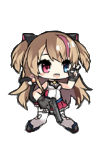
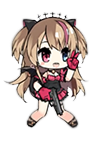
1.3.3
1.3.3（忘了submit了（诶嘿嘿

diff --git a/snqxap/UpdateData.xaml b/snqxap/UpdateData.xaml
@@ -20,6 +20,19 @@
 > - 感谢以上。&#13;
 > - 如果发现了什么bug或者有什么建议，欢迎反馈。&#13;
 &#13;
+###v1.3.3 (Trick or Treat版) &#13;
+&#13;
+> - 增加M1A1、63式数据。&#13;
+> - 部分带有万圣节皮肤的战术少女更新Q版图。&#13;
+> - 九宫格右上角增加战术少女本身提供的光环图。&#13;
+> - 其他计算器增加六图的地图数据。&#13;
+> - 修正爆破榴弹/杀伤榴弹不受好感度影响的bug。&#13;
+> - 修正G3的光环指向。&#13;
+> - 修正布伦的伤害值。&#13;
+> - 修正修改枪娘位置可能导致原光环不变的bug。&#13;
+> - 加强：M3、PP-2000、SIG-510的伤害；PPSh-41、M1919A4、MG34的生命；&#13;
+> - 伯莱塔、布伦、AAT-52的命中；BM59、64式的闪避；M2HB的弹链；LWMMG、MP446、FG42的成长。&#13;
+&#13;
 ###v1.3.2 (国庆/约会大作战版) &#13;
 &#13;
 > - 好感度计算器增加对约会大作战活动（好感UP）的支持。&#13;

diff --git a/snqxap/MainWindow.xaml b/snqxap/MainWindow.xaml
@@ -1,7 +1,7 @@
 <Window x:Class="snqxap.MainWindow"
         xmlns="http://schemas.microsoft.com/winfx/2006/xaml/presentation"
         xmlns:x="http://schemas.microsoft.com/winfx/2006/xaml"
-        Title="「干死雪球」阵型计算器 - h@jyying.cn - v1.3.2 国庆/约会大作战版" Height="825" Width="850">
+        Title="「干死雪球」阵型计算器 - h@jyying.cn - v1.3.3 Trick or Treat版" Height="825" Width="850">
 
     <Viewbox Stretch="Fill">
         <Grid  Height="795" Width="840">

diff --git a/snqxap/MainWindow.xaml.cs b/snqxap/MainWindow.xaml.cs
@@ -31,7 +31,7 @@ namespace snqxap
         /// <summary>
         /// 枪娘总数
         /// </summary>
-        public const int GUN_NUMBER = 119; 
+        public const int GUN_NUMBER = 121; //59 122
         /// <summary>
         /// 装备总数
         /// </summary>
@@ -334,7 +334,7 @@ namespace snqxap
             gun[87].name = "PK"; gun[87].what = 6;gun[87].crit = 0.05; gun[87].belt = 11; gun[87].number = 0; gun[87].damageup = 0; gun[87].hitup = 0; gun[87].shotspeedup = 0; gun[87].critup = 0; gun[87].dodgeup = 0; gun[87].to = 0;
             gun[88].name = "内格夫"; gun[88].what = 6;gun[88].crit = 0.05; gun[88].belt = 9; gun[88].number = 0; gun[88].damageup = 0; gun[88].hitup = 0; gun[88].shotspeedup = 0; gun[88].critup = 0; gun[88].dodgeup = 0; gun[88].to = 0;
             gun[89].name = "RPD"; gun[89].what = 6; gun[89].crit = 0.05; gun[89].belt = 8; gun[89].number = 0; gun[89].damageup = 0; gun[89].hitup = 0; gun[89].shotspeedup = 0; gun[89].critup = 0; gun[89].dodgeup = 0; gun[89].to = 0;
-            gun[90].name = "M2HB"; gun[90].what = 6; gun[90].crit = 0.05; gun[90].belt = 9; gun[90].number = 0; gun[90].damageup = 0; gun[90].hitup = 0; gun[90].shotspeedup = 0; gun[90].critup = 0; gun[90].dodgeup = 0; gun[90].to = 0;
+            gun[90].name = "M2HB"; gun[90].what = 6; gun[90].crit = 0.05; gun[90].belt = 10; gun[90].number = 0; gun[90].damageup = 0; gun[90].hitup = 0; gun[90].shotspeedup = 0; gun[90].critup = 0; gun[90].dodgeup = 0; gun[90].to = 0;
             gun[91].name = "LWMMG"; gun[91].what = 6; gun[91].crit = 0.05; gun[91].belt = 9; gun[91].number = 0; gun[91].damageup = 0; gun[91].hitup = 0; gun[91].shotspeedup = 0; gun[91].critup = 0; gun[91].dodgeup = 0; gun[91].to = 0;
             gun[92].name = "M249 SAW"; gun[92].what = 6;gun[92].crit = 0.05; gun[92].belt = 8; gun[92].number = 0; gun[92].damageup = 0; gun[92].hitup = 0; gun[92].shotspeedup = 0; gun[92].critup = 0; gun[92].dodgeup = 0; gun[92].to = 0;
             gun[93].name = "AAT-52"; gun[93].what = 6;gun[93].crit = 0.05; gun[93].belt = 10; gun[93].number = 0; gun[93].damageup = 0; gun[93].hitup = 0; gun[93].shotspeedup = 0; gun[93].critup = 0; gun[93].dodgeup = 0; gun[93].to = 0;
@@ -417,6 +417,19 @@ namespace snqxap
             gun[118].name = "EVO 3"; gun[118].what = 3; gun[118].crit = 0.05; gun[118].belt = 0; gun[118].number = 1; gun[118].effect0 = 4; gun[118].hitup = 0.55; gun[118].to = 2;
             gun[118].eatratio = 105; gun[118].ratiododge = 115; gun[118].ratiohit = 115; gun[118].ratiohp = 110; gun[118].ratiopow = 90; gun[118].ratiorate = 120;
             gun[118].type = 401; gun[118].probability = 20; gun[118].skilleffect1 = 1.6; gun[118].skilleffect2 = 2.5; gun[118].skilleffect3 = 0; gun[118].skilleffect4 = 0; gun[118].growth = 1.5; gun[118].growth_type = 2;
+
+            gun[119].name = "M1A1"; gun[119].what = 5; gun[119].crit = 0.4; gun[119].belt = 0; gun[119].number = 1; gun[119].effect0 = 6; gun[119].rateup = 0.2; gun[119].to = 4;
+            gun[119].eatratio = 115; gun[119].ratiododge = 130; gun[119].ratiohit = 105; gun[119].ratiohp = 95; gun[119].ratiopow = 90; gun[119].ratiorate = 115;
+            gun[119].type = 102; gun[119].probability = 36; gun[119].skilleffect1 = 30; gun[119].skilleffect2 = 8; gun[119].skilleffect3 = 0; gun[119].skilleffect4 = 0; gun[119].growth = 0.6; gun[119].growth_type = 3;
+
+          //  gun[121].name = "59式"; gun[121].what = 4; gun[121].crit = 0.2; gun[121].belt = 0; gun[121].number = 5; gun[121].effect0 = 2; gun[121].effect1 = 3; gun[121].effect2 = 6; gun[121].effect3 = 8; gun[121].effect4 = 9; gun[121].damageup = 0.15; gun[121].hitup = 0.3; gun[121].to = 1;
+         //   gun[121].eatratio = 130; gun[121].ratiododge = 120; gun[121].ratiohit = 115; gun[121].ratiohp = 90; gun[121].ratiopow = 95; gun[121].ratiorate = 110;
+         // gun[121].type = 234; gun[121].probability = 40; gun[121].skilleffect1 = 30; gun[121].skilleffect2 = 12; gun[121].skilleffect3 = 0; gun[121].skilleffect4 = 0; gun[121].growth = 0.8; gun[121].growth_type = 3;
+
+            gun[120].name = "63式"; gun[120].what = 2; gun[120].crit = 0.2; gun[120].belt = 0; gun[120].number = 1; gun[120].effect0 = 6; gun[120].damageup = 0.1; gun[120].shotspeedup = 0.2; gun[120].to = 3;
+            gun[120].eatratio = 100; gun[120].ratiododge = 100; gun[120].ratiohit = 100; gun[120].ratiohp = 100; gun[120].ratiopow = 120; gun[120].ratiorate = 110;
+            gun[120].type = 103; gun[120].probability = 32; gun[120].skilleffect1 = 200; gun[120].skilleffect2 = 8; gun[120].skilleffect3 = 0; gun[120].skilleffect4 = 0; gun[120].growth = 1.2; gun[120].growth_type = 3;
+
 
 
             for (int i = 0; i < GUN_NUMBER + 1; i++)//加颜色
@@ -870,7 +883,7 @@ namespace snqxap
             gun[61].eatratio = 115;
             gun[62].eatratio = 110;
             gun[63].eatratio = 110;
-            gun[64].eatratio = 115;
+            gun[64].eatratio = 120;
             gun[65].eatratio = 105;
             gun[66].eatratio = 115;
             gun[67].eatratio = 135;
@@ -897,14 +910,14 @@ namespace snqxap
             gun[88].eatratio = 135;
             gun[89].eatratio = 130;
             gun[90].eatratio = 95;
-            gun[91].eatratio = 90;
+            gun[91].eatratio = 95;
             gun[92].eatratio = 135;
             gun[93].eatratio = 90;
             gun[94].eatratio = 125;
             gun[95].eatratio = 115;
             gun[96].eatratio = 110;
             gun[97].eatratio = 120;
-            gun[98].eatratio = 100;
+            gun[98].eatratio = 115;
             gun[99].eatratio = 100;
             gun[100].eatratio = 115;
 
@@ -923,7 +936,7 @@ namespace snqxap
             gun[12].ratiohit = 110;
             gun[13].ratiohit = 100;
             gun[14].ratiohit = 115;
-            gun[15].ratiohit = 80;
+            gun[15].ratiohit = 95;
             gun[16].ratiohit = 100;
             gun[17].ratiohit = 85;
             gun[18].ratiohit = 90;
@@ -1001,11 +1014,11 @@ namespace snqxap
             gun[90].ratiohit = 85;
             gun[91].ratiohit = 115;
             gun[92].ratiohit = 125;
-            gun[93].ratiohit = 110;
+            gun[93].ratiohit = 120;
             gun[94].ratiohit = 105;
             gun[95].ratiohit = 95;
             gun[96].ratiohit = 95;
-            gun[97].ratiohit = 115;
+            gun[97].ratiohit = 125;
             gun[98].ratiohit = 115;
             gun[99].ratiohit = 110;
             gun[100].ratiohit = 120;
@@ -1015,7 +1028,7 @@ namespace snqxap
             gun[2].ratiopow = 95;
             gun[3].ratiopow = 115;
             gun[4].ratiopow = 85;
-            gun[5].ratiopow = 105;
+            gun[5].ratiopow = 110;
             gun[6].ratiopow = 90;
             gun[7].ratiopow = 90;
             gun[8].ratiopow = 95;
@@ -1023,7 +1036,7 @@ namespace snqxap
             gun[10].ratiopow = 115;
             gun[11].ratiopow = 100;
             gun[12].ratiopow = 130;
-            gun[13].ratiopow = 115;
+            gun[13].ratiopow = 120;
             gun[14].ratiopow = 115;
             gun[15].ratiopow = 125;
             gun[16].ratiopow = 105;
@@ -1047,7 +1060,7 @@ namespace snqxap
             gun[34].ratiopow = 110;
             gun[35].ratiopow = 110;
             gun[36].ratiopow = 105;
-            gun[37].ratiopow = 115;
+            gun[37].ratiopow = 120;
             gun[38].ratiopow = 120;
             gun[39].ratiopow = 100;
             gun[40].ratiopow = 115;
@@ -1130,7 +1143,7 @@ namespace snqxap
             gun[15].ratiododge = 85;
             gun[16].ratiododge = 90;
             gun[17].ratiododge = 95;
-            gun[18].ratiododge = 100;
+            gun[18].ratiododge = 110;
             gun[19].ratiododge = 120;
             gun[20].ratiododge = 95;
             gun[21].ratiododge = 125;
@@ -1186,7 +1199,7 @@ namespace snqxap
             gun[71].ratiododge = 90;
             gun[72].ratiododge = 85;
             gun[73].ratiododge = 85;
-            gun[74].ratiododge = 85;
+            gun[74].ratiododge = 90;
             gun[75].ratiododge = 95;
             gun[76].ratiododge = 85;
             gun[77].ratiododge = 85;
@@ -1231,7 +1244,7 @@ namespace snqxap
             gun[14].ratiohp = 95;
             gun[15].ratiohp = 115;
             gun[16].ratiohp = 105;
-            gun[17].ratiohp = 105;
+            gun[17].ratiohp = 110;
             gun[18].ratiohp = 100;
             gun[19].ratiohp = 105;
             gun[20].ratiohp = 125;
@@ -1300,7 +1313,7 @@ namespace snqxap
             gun[83].ratiohp = 120;
             gun[84].ratiohp = 95;
             gun[85].ratiohp = 120;
-            gun[86].ratiohp = 105;
+            gun[86].ratiohp = 110;
             gun[87].ratiohp = 115;
             gun[88].ratiohp = 105;
             gun[89].ratiohp = 100;
@@ -1310,7 +1323,7 @@ namespace snqxap
             gun[93].ratiohp = 110;
             gun[94].ratiohp = 85;
             gun[95].ratiohp = 100;
-            gun[96].ratiohp = 95;
+            gun[96].ratiohp = 100;
             gun[97].ratiohp = 105;
             gun[98].ratiohp = 90;
             gun[99].ratiohp = 105;
@@ -8695,7 +8708,10 @@ namespace snqxap
                             skilluphit[combo] *= 1 + (Math.Round(num1) / 100);
                             renewindex(combo);
                         }
-                        renewtime(combo, gun[index].skilleffect2);
+                        if (gun[index].belt != 0)
+                            renewtime(combo, gun[index].skilleffect2);
+                        else
+                            renewtime(combo, num2);
                         string read = "提升自身" + num1.ToString("f0") + "%命中";
                        renewread(combo, read);
                         return;
@@ -8842,6 +8858,21 @@ namespace snqxap
                         }
                         renewtime(combo, num2);
                         string read = "(夜)降低敌方" + num1.ToString("f0") + "%命中";
+                        renewread(combo, read);
+                        return;
+                    }
+                case 234:
+                    {
+                        if (ischecked)
+                        {
+                            skilldowndodge *= 1 - (Math.Round(num1) / 100);
+                            for (int i = 0; i < 9; i++)
+                            {
+                                renewindex(i);
+                            }
+                        }
+                        renewtime(combo, num2);
+                        string read = "(夜)降低敌方" + num1.ToString("f0") + "%回避";
                         renewread(combo, read);
                         return;
                     }

diff --git a/snqxap/calclevelup.xaml.cs b/snqxap/calclevelup.xaml.cs
@@ -29,7 +29,7 @@ namespace snqxap
     public partial class calclevelup : Window
     {
         public const int MAX_LEVEL = 100; 
-        public const int MAP_NUMBER = 66; 
+        public const int MAP_NUMBER = 76; 
         int[] leveldata = new int[MAX_LEVEL-1];
         map[] allmap = new map[MAP_NUMBER];
 
@@ -209,6 +209,16 @@ namespace snqxap
             allmap[63].name = "32n"; allmap[63].exp = 410; allmap[63].downlevel = 87;
             allmap[64].name = "33n"; allmap[64].exp = 420; allmap[64].downlevel = 91;
             allmap[65].name = "34n"; allmap[65].exp = 450; allmap[65].downlevel = 97;
+            allmap[66].name = "61"; allmap[66].exp = 400; allmap[66].downlevel = 85;
+            allmap[67].name = "62"; allmap[67].exp = 410; allmap[67].downlevel = 87;
+            allmap[68].name = "63"; allmap[68].exp = 420; allmap[68].downlevel = 90;
+            allmap[69].name = "64"; allmap[69].exp = 430; allmap[69].downlevel = 91;
+            allmap[70].name = "65"; allmap[70].exp = 440; allmap[70].downlevel = 93;
+            allmap[71].name = "66"; allmap[71].exp = 450; allmap[71].downlevel = 95;
+            allmap[72].name = "61e"; allmap[72].exp = 450; allmap[72].downlevel = 95;
+            allmap[73].name = "62e"; allmap[73].exp = 450; allmap[73].downlevel = 97;
+            allmap[74].name = "63e"; allmap[74].exp = 460; allmap[74].downlevel = 99;
+            allmap[75].name = "64e"; allmap[75].exp = 470; allmap[75].downlevel = 100;
 
             for (int i = 0; i < MAP_NUMBER; i++)
             {

diff --git a/snqxap/Properties/AssemblyInfo.cs b/snqxap/Properties/AssemblyInfo.cs
@@ -51,5 +51,5 @@ using System.Windows;
 // 可以指定所有这些值，也可以使用“生成号”和“修订号”的默认值，
 // 方法是按如下所示使用“*”: 
 // [assembly: AssemblyVersion("1.0.*")]
-[assembly: AssemblyVersion("1.3.2.0")]
-[assembly: AssemblyFileVersion("1.3.2.0")]
+[assembly: AssemblyVersion("1.3.3.0")]
+[assembly: AssemblyFileVersion("1.3.3.0")]

diff --git a/README.md b/README.md
@@ -5,13 +5,18 @@ Logs
 ###### 部分杀毒软件可能会报毒。请安心使用。
 -------------
 
-###v1.3.3 () 2016.10.02
+###v1.3.3 (Trick or Treat版) 2016.10.02
 
+> - 增加M1A1、63式数据。
+> - 部分带有万圣节皮肤的战术少女更新Q版图。
 > - 九宫格右上角增加战术少女本身提供的光环图。
+> - 其他计算器增加六图的地图数据。
 > - 修正爆破榴弹/杀伤榴弹不受好感度影响的bug。
 > - 修正G3的光环指向。
 > - 修正布伦的伤害值。
 > - 修正修改枪娘位置可能导致原光环不变的bug。
+> - 加强：M3、PP-2000、SIG-510的伤害；PPSh-41、M1919A4、MG34的生命；
+> - 伯莱塔、布伦、AAT-52的命中；BM59、64式的闪避；M2HB的弹链；LWMMG、MP446、FG42的成长。
 
 ###v1.3.2 (国庆/约会大作战版) 2016.09.27
 
